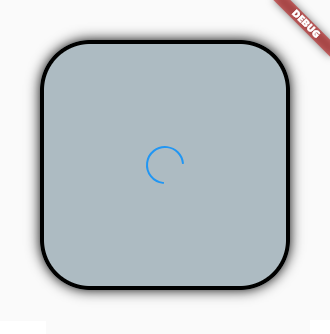
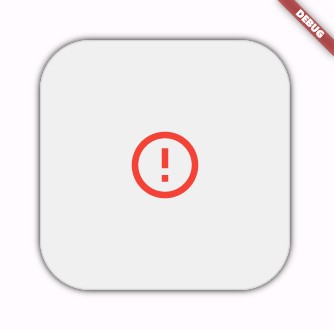
1.2.0. release

diff --git a/lib/src/n_image_picker.dart b/lib/src/n_image_picker.dart
@@ -71,23 +71,23 @@ class _NImagePickerState extends State<NImagePicker> {
         streamController = StreamController<bool>();
         setState(()=> streamController?.add(true));
 
+        // Future.delayed(Duration(minutes: 30))
         await  widget.controller.setFromURL(
           context,
           url     : widget.onLoadingImage,
           headers : widget.controller.headers
         ).then((state) async {
-          if(state){
-            // widget.controller.setFromBytes(name: widget.onLoadingImage + Random().nextInt(10000).toString(), bytes: bytes);
-            // widget.controller.setFromResponse(response: r, url: widget.onLoadingImage);
-            widget.controller.fromLoading = true;
-            widget.controller.error       = false;
-          } else{
-            widget.controller.fromLoading = false;
-            widget.controller.error       = true;
-          }
           streamController?.close();
           streamController = null;
-          setState(()=> widget.controller.error = false);
+          setState((){
+            if(state){
+              widget.controller.fromLoading = true;
+              widget.controller.error       = false;
+            } else{
+              widget.controller.fromLoading = false;
+              widget.controller.error       = true;
+            }
+          });
         });
       } catch (e) {
         streamController?.close();
@@ -160,28 +160,10 @@ class _NImagePickerState extends State<NImagePicker> {
               onTap        : widget.readOnly ? null : ()=> widget.controller.removeImage(notify: true),
               borderRadius : widget.borderRadius,
               child        : widget.onErrorWidget??
-              const Column(
-                mainAxisAlignment: MainAxisAlignment.center,
-                children: [
-                  Padding(
-                    padding : EdgeInsets.only(bottom: 10),
-                    child   :
-                    Icon(
-                      Icons.error_outline,
-                      size    : 40,
-                      color   : Colors.white,
-                      shadows : [Shadow(color: Colors.black, blurRadius: 10)]
-                    ),
-                  ),
-                  Text(
-                    "SOMETHING GET WORNG",
-                    style:
-                    TextStyle(
-                      color   : Colors.white,
-                      shadows : [Shadow(color: Colors.black, blurRadius: 10)]
-                    )
-                  )
-                ],
+              Icon(
+                Icons.error_outline,
+                size    : 80,
+                color   : Colors.red,
               ),
             )
             : widget.controller.file == null
@@ -190,10 +172,10 @@ class _NImagePickerState extends State<NImagePicker> {
                 onTap        : widget.readOnly ? null : () => widget.controller.pickImage(),
                 child        : widget.emptyWidget ??
                   const Icon(
-                    Icons.image_outlined,
-                    size    : 40,
-                    color   : Colors.white,
-                    shadows : [Shadow(color: Colors.black, blurRadius: 10)]
+                    Icons.file_upload_outlined,
+                    size    : 80,
+                    color   : Colors.grey,
+                    // shadows : [Shadow(color: Colors.grey, blurRadius: 2)]
                   )
                 )
               : widget.filledWidget ?? Row(
@@ -248,7 +230,18 @@ class _NImagePickerState extends State<NImagePicker> {
                   )
                 ],
               )
-            : widget.onLoadingWidget ?? const Center( child: CircularProgressIndicator(strokeWidth: 2) ),
+            : widget.onLoadingWidget ?? const Center(
+              child:
+              SizedBox.square(
+                dimension : 60,
+                child     :
+                CircularProgressIndicator(
+                  strokeWidth : 2,
+                  color       : Colors.grey,
+                  strokeCap   : StrokeCap.round,
+                )
+              )
+            ),
         )
       )
     );

diff --git a/lib/src/controller.dart b/lib/src/controller.dart
@@ -1,4 +1,3 @@
-
 import 'dart:math';
 import 'package:file_picker/file_picker.dart';
 import 'package:flutter/foundation.dart';
@@ -21,6 +20,8 @@ class NImagePickerController with ChangeNotifier{
     'Access-Control-Allow-Origin': '*',
     'Access-Control-Allow-Methods': 'GET, POST',
     'Access-Control-Allow-Headers': 'Origin, Content-Type',
+    "origin": "*",
+    "method": "GET",
   };
 
   /// Map for headers, this need a backend open port for your domain
@@ -82,45 +83,33 @@ class NImagePickerController with ChangeNotifier{
     notifyListeners();
   }
 
-  Future<bool>setFromURL(BuildContext context, {required String url, required Map<String, String> headers}) async {
-    // List<String> list = url.split("://");
-    // String type = list.first.toLowerCase();
-    // list = list.last.split("/");
-    // String domain = list.first;
-    // list.remove(domain);
-    // String path = list.join("/");
-    Uint8List? asd;
+  Future<bool>setFromURL(BuildContext context, {required String url, required Map<String, String> headers}) async{
+    List<String> list = url.split("://");
+    String type = list.first.toLowerCase();
+    list = list.last.split("/");
+    String domain = list.first;
+    list.remove(domain);
+    String path = list.join("/");
 
-    print('asd');
-
-    Image.network(url)
-    .image
-    .resolve( createLocalImageConfiguration(context) )
-    .addListener( ImageStreamListener((info, _) async => await info.image.toByteData().then((value) => asd = value?.buffer.asUint8List()) ) );
-
-    setFromBytes(
-      name  : url + Random().nextInt(10000).toString(),
-      bytes : asd
-    );
-
-    print(asd != null);
-
-    return asd != null;
-
-    // return await get(
-    //   type == 'https' ? Uri.https(domain, path) : Uri.http(domain, path),
-    //   headers: headers
-    // ).then((r) async {
-    //   if(r.statusCode == 200){
-    //     setFromBytes(
-    //       name  : url +  Random().nextInt(10000).toString(),
-    //       bytes : r.bodyBytes
-    //     );
-    //     return true;
-    //   } else {
-    //     return false;
-    //   }
-    // });
+    Request request = Request("GET",type == 'https' ? Uri.https(domain, path) : Uri.http(domain, path));
+    request.followRedirects = false;
+    return await request.send().then((value) async{
+      if(value.statusCode == 200){
+        try{
+          value.stream.toBytes().then((bytes)=> setFromBytes(
+            name  : url +  Random().nextInt(10000).toString(),
+            bytes : bytes
+          ));
+          return true;
+        } catch (e) {
+          _reset(error: true);
+          return false;
+        }
+      } else {
+        _reset(error: true);
+        return false;
+      }
+    });
   }
 
   setFromBytes({required final String name, required final Uint8List? bytes}){
@@ -139,6 +128,7 @@ class NImagePickerController with ChangeNotifier{
         _reset(error: true);
       }
     } catch (e){
+      print(e);
       _reset(error: true);
     }
   }

diff --git a/example/lib/main.dart b/example/lib/main.dart
@@ -45,21 +45,22 @@ class _MyAppState extends State<MyApp> {
           children: [
             NImagePicker(
               controller        : nImagePickerController,
-              onLoadingImage    : 'https://imagenes.20minutos.es/files/image_1920_1080/uploads/imagenes/2021/10/22/facebook.png',
-              bankgroundColor   : Colors.blueGrey.withOpacity(0.5),
+              // this is a protected server image, you must to provide a different header in web
+              onLoadingImage    : "https://w.wallhaven.cc/full/49/wallhaven-49d5y8.jpg",
+              bankgroundColor   : const Color(0xFFededed).withOpacity(0.8),
               height            : 250,
               width             : 250,
               // readOnly          : true,
               filterOpacity     : 0.2,
               borderRadius      : BorderRadius.circular(50),
               fit               : BoxFit.cover,
-              border            : Border.all(color: Colors.black, width: 4),
-              shadow            : const BoxShadow(color: Colors.black, blurRadius: 10, blurStyle: BlurStyle.outer),
+              border            : Border.all(color: Colors.grey, width: 1),
+              shadow            : const BoxShadow(color: Colors.black, blurRadius: 5, blurStyle: BlurStyle.outer),
               margin            : const EdgeInsets.all(40),
               viewerBlur        : true,
               viewerBlurSigma   : 10,
               previewBlur       : true,
-              previewBlurSigma  : 4,
+              previewBlurSigma  : 1,
             ),
           ],
         ),

diff --git a/README.md b/README.md
@@ -11,6 +11,9 @@
     <img src="https://raw.githubusercontent.com/nycm1989/nImagePicker/main/screens/4.png" alt="" style="width:300px;">
 </p>
 
+<p align="center">
+    <img src="https://raw.githubusercontent.com/nycm1989/nImagePicker/main/screens/5.png" alt="" style="height:300px;">
+</p>
 
 
 ## With this widget, you can:
@@ -49,7 +52,7 @@ nImagePickerController.imageKey -> String
 
 /// return an async image for uploading using [imageKey] example:
 /// - await controller.multipartFile.then((image) => image)
-nImagePickerController.multipartFile -> MultipartFile
+await nImagePickerController.multipartFile -> Furute<MultipartFile>
 
 /// Map for headers, this need a backend open port for your domain
 nImagePickerController.headers -> Map<String, String>
@@ -62,6 +65,9 @@ nImagePickerController.setFromResponse(response: Response, url: String)
 
 /// This dont work in web!
 nImagePickerController.setFromPath(path: String)
+
+/// Get image from url, this works in all enviroment
+nImagePickerController.setFromURL(context, url: String, headers: Map<String, String>)
 
 /// Open the image dialog picker
 nImagePickerController.pickImage()
@@ -93,20 +99,23 @@ void dispose() {
 
 ```dart
 NImagePicker(
-    controller      : nImagePickerController,
-    onLoadingImage  : 'https://w.wallhaven.cc/full/jx/wallhaven-jxd1x5.jpg',
-    bankgroundColor : Colors.blueGrey.withOpacity(0.5),
-    height          : 250,
-    width           : 250,
-    readOnly        : false,
-    filterOpacity   : 0.2,
-    borderRadius    : BorderRadius.circular(50),
-    fit             : BoxFit.cover,
-    border          : Border.all(color: Colors.black, width: 4),
-    shadow          : const BoxShadow(color: Colors.black, blurRadius: 10, blurStyle: BlurStyle.outer),
-    margin          : const EdgeInsets.all(40),
-    viewerBlur      : true,
-    previewBlur     : true,
+    controller        : nImagePickerController,
+    // this is a protected server image, you must to provide a different header in web
+    onLoadingImage    : "https://w.wallhaven.cc/full/49/wallhaven-49d5y8.jpg",
+    bankgroundColor   : Colors.blueGrey.withOpacity(0.5),
+    height            : 250,
+    width             : 250,
+    // readOnly          : true,
+    filterOpacity     : 0.2,
+    borderRadius      : BorderRadius.circular(50),
+    fit               : BoxFit.cover,
+    border            : Border.all(color: Colors.grey, width: 1),
+    shadow            : const BoxShadow(color: Colors.black, blurRadius: 5, blurStyle: BlurStyle.outer),
+    margin            : const EdgeInsets.all(40),
+    viewerBlur        : true,
+    viewerBlurSigma   : 10,
+    previewBlur       : true,
+    previewBlurSigma  : 1,
 ),
 
 ```

diff --git a/CHANGELOG.md b/CHANGELOG.md
@@ -1,3 +1,8 @@
+## 1.2.0
+* update default widgets
+* new ios-web classes
+* setFromURL added
+
 ## 1.1.1
 * Now use all memory images, dont save any files
 
